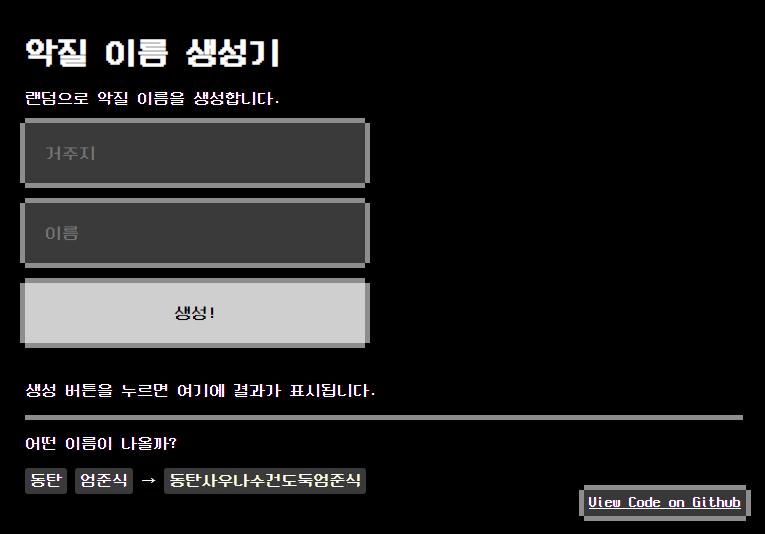
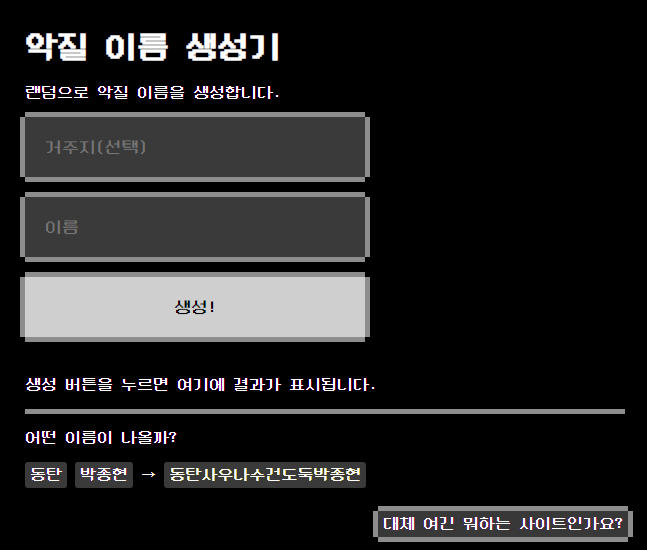
리드미 수정

Changed region(s): [[0.0, 0.0599, 0.5873, 0.6592], [0.0309, 0.6891, 0.9892, 0.9288], [0.5564, 0.8989, 0.9892, 0.9888]]

diff --git a/README.md b/README.md
@@ -1,19 +1,18 @@
-prefix-generator
+악질 이름 생성기
 ---
 [![](https://img.shields.io/badge/license-MIT-green)]() [![](https://img.shields.io/badge/lunch-prepared--by--mother-lightgrey)](#)
 
 ![](./.github/demo.png)
 
-> prefix-generator  
-> "접두사 생성기"  
+> 당신만의 악질 이름을 생성하세요.  
 
 [사이트 이동](https://name.ho9.me)  
 
-악질 접두사를 붙여 악질 이름을 만들어냅니다.  
+최근 유행하고 있는 악질 이름 드립을 효율적으로 생성할 수 있게 만든 악질 이름 생성기입니다.  
 
-어휘가 풍부하지 않으므로 생성기가 생성하는 악질 이름이 마음에 들지 않는다면 [기여 가이드](./CONTRIBUTE.md)를 통해 어휘를 추가해주세요.
+어휘가 풍부하지 않으므로 생성기가 생성하는 악질 이름이 마음에 들지 않는다면 [기여 가이드](./CONTRIBUTE.md)를 통해 어휘를 추가하거나 이슈트래커에 이슈를 추가해주세요.
 
-## [LICENSE](./LICENSE)
+### [LICENSE](./LICENSE)
 ```
 MIT License
 
